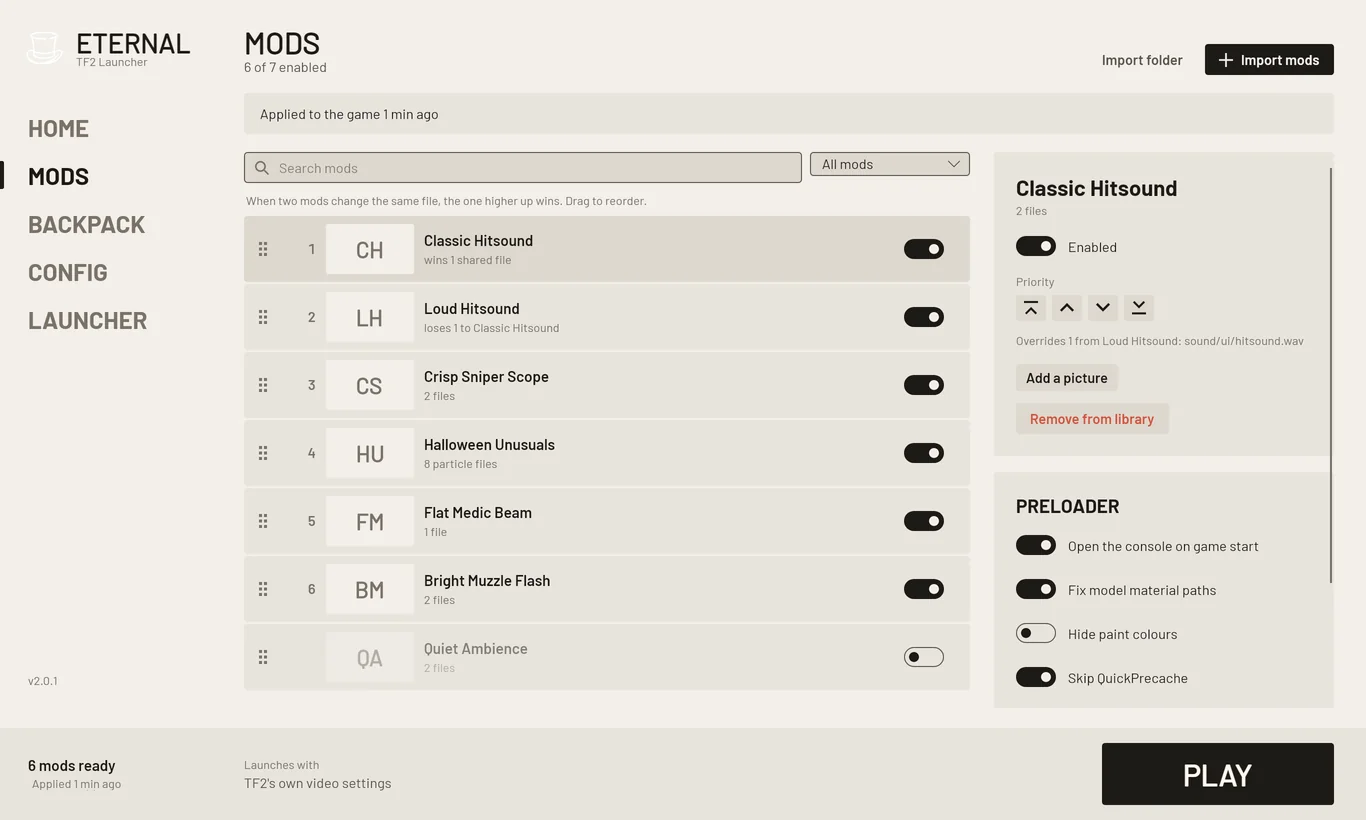
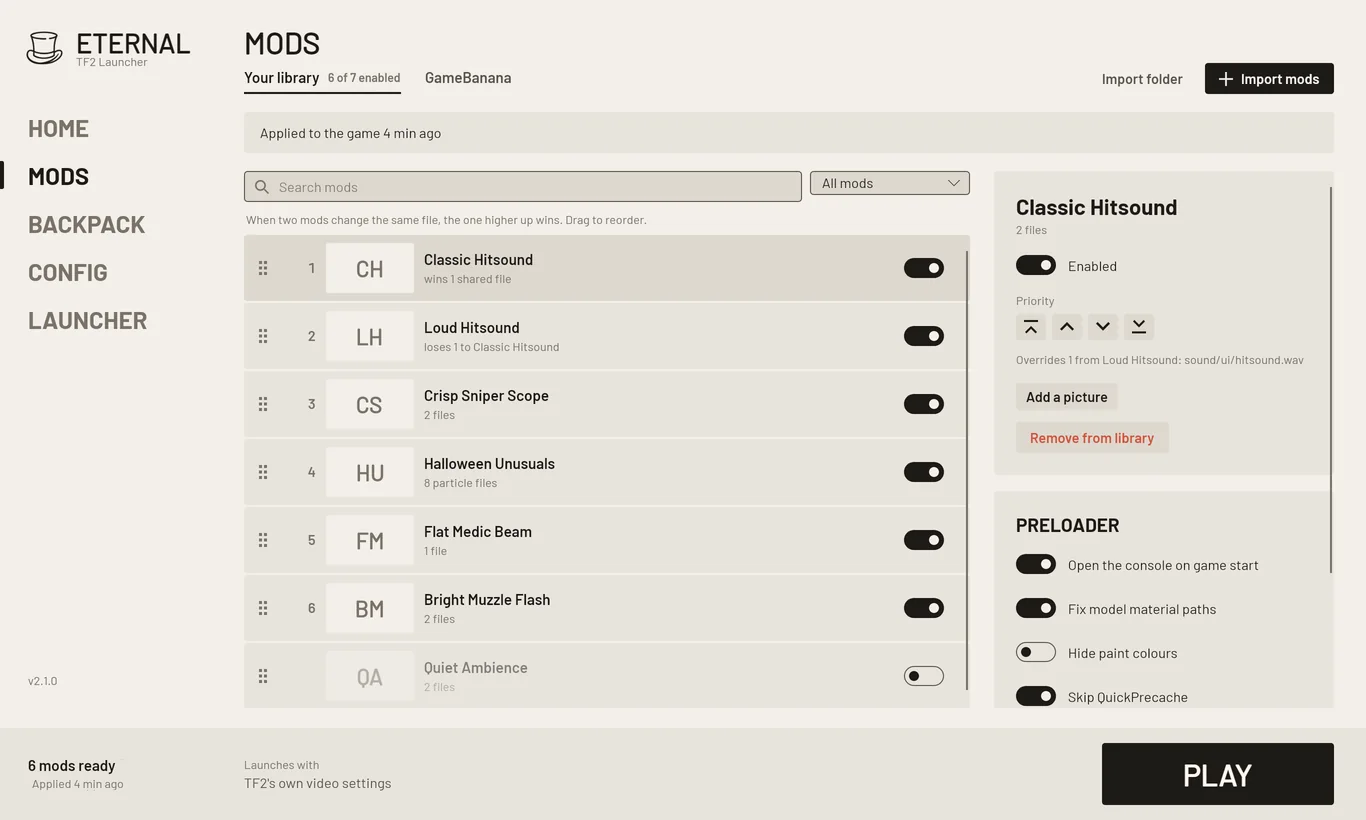
Release 2.1.0: GameBanana section and plainer copy on the website

diff --git a/docs/index.html b/docs/index.html
@@ -4,8 +4,8 @@
 <meta charset="utf-8">
 <meta name="viewport" content="width=device-width, initial-scale=1">
 <meta name="color-scheme" content="dark light">
-<title>Eternal TF2 Launcher: your TF2 mods, even in Casual</title>
-<meta name="description" content="A free launcher for Team Fortress 2 on Windows and Linux. Your mods load on Casual servers, every setting is explained, and your backpack shows its prices.">
+<title>Eternal, a TF2 launcher for your mods</title>
+<meta name="description" content="A free, open-source Team Fortress 2 launcher for Windows and Linux. It keeps your mods in one list, loads them in Casual, browses GameBanana, explains TF2's settings and prices your backpack.">
 <link rel="icon" type="image/png" href="assets/logos/mann-co.png">
 <link rel="preload" href="assets/fonts/BarlowCondensed-ExtraBold.ttf" as="font" type="font/ttf" crossorigin>
 <link rel="stylesheet" href="site.css">
@@ -24,6 +24,7 @@
   <a class="wordmark" href="#top"><img data-logo src="assets/logos/mann-co.png" alt="" width="40" height="40">Eternal</a>
   <nav aria-label="Sections">
     <a href="#mods">Mods</a>
+    <a href="#gamebanana">GameBanana</a>
     <a href="#config">Config</a>
     <a href="#backpack">Backpack</a>
     <a href="#themes">Themes</a>
@@ -35,24 +36,24 @@
 <main id="top">
 
   <section class="hero" aria-labelledby="title">
-    <h1 id="title">Your TF2 mods, <br class="phone-break">even in Casual</h1>
+    <h1 id="title">A launcher <br class="phone-break">for TF2 mods</h1>
     <div class="hero-text">
-      <p class="lead">Eternal is a free launcher for Team Fortress 2 on Windows and Linux. Switch on the mods you want, press Play, and they're there on any Casual server.</p>
+      <p class="lead">Eternal is a free Team Fortress 2 launcher for Windows and Linux. It keeps your mods in one list and loads them in Casual with cueki's casual-pre-loader.</p>
       <div class="hero-actions">
         <a class="button button-ink" href="https://github.com/holid4y/EternalTF2Launcher/releases/latest">Download</a>
         <a class="link" href="https://github.com/holid4y/EternalTF2Launcher">Source on GitHub</a>
       </div>
-      <p class="facts">Version 2.0.1 · Windows and Linux · Free and open source</p>
+      <p class="facts">Version 2.1.0 · Windows and Linux · Free and open source</p>
     </div>
     <figure class="hero-shot">
-      <a href="assets/screens/themes/mann-co-2x.webp" aria-label="Open the screenshot at full size"><img data-shot src="assets/screens/themes/mann-co-1x.webp" srcset="assets/screens/themes/mann-co-1x.webp 1366w, assets/screens/themes/mann-co-2x.webp 2732w" sizes="(max-width: 900px) 100vw, 58vw" width="1366" height="820" alt="The Mods tab: seven mods in load order, six switched on, and the orange Play button at the bottom"></a>
+      <a href="assets/screens/themes/mann-co-2x.webp" aria-label="Open the screenshot at full size"><img data-shot src="assets/screens/themes/mann-co-1x.webp" srcset="assets/screens/themes/mann-co-1x.webp 1366w, assets/screens/themes/mann-co-2x.webp 2732w" sizes="(max-width: 900px) 100vw, 58vw" width="1366" height="820" alt="The Mods tab: seven mods in load order, six switched on, tabs for the library and GameBanana, and the Play button at the bottom"></a>
     </figure>
   </section>
 
   <section id="mods" class="mods" aria-labelledby="mods-title">
     <div class="section-head">
-      <h2 id="mods-title" data-reveal>Drop it in, press Play</h2>
-      <p class="statement" data-reveal>Casual servers usually throw out custom files. Eternal packs your mods the way cueki's casual-pre-loader does, so hitsounds, skins, particles and HUDs make it into matchmaking.</p>
+      <h2 id="mods-title" data-reveal>Your mod list</h2>
+      <p class="statement" data-reveal>Casual servers ignore most custom files. Eternal runs cueki's casual-pre-loader for you, so most hitsounds, skins, particles and HUDs still show up there.</p>
     </div>
     <div class="story">
       <div class="story-stage" aria-hidden="true">
@@ -64,35 +65,62 @@
       <ol class="steps">
         <li class="step" data-step="drop">
           <a class="shot" href="assets/screens/drop-2x.webp"><img src="assets/screens/drop-1x.webp" srcset="assets/screens/drop-1x.webp 1366w, assets/screens/drop-2x.webp 2732w" sizes="100vw" width="1366" height="820" alt="A file being dragged onto the launcher, which shows Drop to import" loading="lazy"></a>
-          <h3>Drag a mod onto the window</h3>
-          <p>A VPK, a folder or a ZIP, RAR or 7z straight from your downloads all work. New mods from GameBanana can be imported from the Home tab, checked against GameBanana's own virus scan.</p>
+          <h3>Add a mod</h3>
+          <p>Drag a VPK, a folder, or a ZIP, RAR or 7z download onto the window. Loose files, like a lightwarp or a hitsound with no folders around it, are placed by matching their names against the game's own files.</p>
         </li>
         <li class="step" data-step="conflict">
           <a class="shot" href="assets/screens/conflict-2x.webp"><img src="assets/screens/conflict-1x.webp" srcset="assets/screens/conflict-1x.webp 1366w, assets/screens/conflict-2x.webp 2732w" sizes="100vw" width="1366" height="820" alt="Two hitsound mods in the list, with Loud Hitsound marked as losing its file to Classic Hitsound" loading="lazy"></a>
-          <h3>Put them in order</h3>
-          <p>When two mods change the same file, the one higher up wins. Each mod tells you which files it wins and which it loses, so you're never guessing why a skin didn't show up.</p>
+          <h3>Set the order</h3>
+          <p>When two mods change the same file, the one higher up wins. Each mod lists the files it wins and loses, so you can see why a skin didn't show up.</p>
         </li>
         <li class="step" data-step="applying">
           <a class="shot" href="assets/screens/applying-2x.webp"><img src="assets/screens/applying-1x.webp" srcset="assets/screens/applying-1x.webp 1366w, assets/screens/applying-2x.webp 2732w" sizes="100vw" width="1366" height="820" alt="The launcher applying mods, with a progress bar over the Play button" loading="lazy"></a>
           <h3>Press Play</h3>
-          <p>A moment after each change, Eternal applies your mods. It never touches the game folder while TF2 is running, and Play waits for a build to finish instead of starting the game on half-written files.</p>
+          <p>Your mods are applied a moment after each change. Nothing is written while TF2 is running, and Play waits until they're done.</p>
         </li>
         <li class="step" data-step="restore">
           <a class="shot" href="assets/screens/restore-2x.webp"><img src="assets/screens/restore-1x.webp" srcset="assets/screens/restore-1x.webp 1366w, assets/screens/restore-2x.webp 2732w" sizes="100vw" width="1366" height="820" alt="The Restore vanilla question, asking to turn every mod off while keeping the library" loading="lazy"></a>
-          <h3>Changed your mind?</h3>
-          <p>Restore vanilla puts the game back the way Steam installed it. Your mods stay in the library, ready for next time.</p>
+          <h3>Turning them off</h3>
+          <p>Restore vanilla takes your mods out of the game and leaves them in the library for next time.</p>
         </li>
       </ol>
     </div>
   </section>
 
+  <section id="gamebanana" class="gamebanana" aria-labelledby="gamebanana-title">
+    <div class="section-head">
+      <h2 id="gamebanana-title" data-reveal>GameBanana in the Mods tab</h2>
+      <p class="statement" data-reveal>Browse GameBanana's TF2 mods and sounds by category, search and sort them, and install what you like without leaving the launcher.</p>
+    </div>
+    <div class="gb-browse">
+      <figure class="gb-shot" data-reveal>
+        <a class="shot" href="assets/screens/browse-2x.webp"><img src="assets/screens/browse-1x.webp" srcset="assets/screens/browse-1x.webp 1366w, assets/screens/browse-2x.webp 2732w" sizes="(max-width: 900px) 100vw, 64vw" width="1366" height="820" alt="The GameBanana browser in the Mods tab: categories on the left, a search box and sort menu, and a grid of popular TF2 mods with their pictures, likes, views and update dates" loading="lazy"></a>
+      </figure>
+      <dl class="points">
+        <div data-reveal><dt>You pick the files</dt><dd>Plenty of uploads come as several files, like standard and high-quality builds. You tick the ones you want before anything downloads.</dd></div>
+        <div data-reveal><dt>Checked before installing</dt><dd>Files only come from gamebanana.com, and each has to match the size, MD5 checksum and virus scan GameBanana lists for it.</dd></div>
+        <div data-reveal><dt>Versions in one archive</dt><dd>If a download holds alternatives, like a 54 and a 70 FOV build, you choose which to install. Versions that change the same files are marked.</dd></div>
+      </dl>
+    </div>
+    <div class="gb-pair">
+      <figure data-reveal>
+        <a class="shot" href="assets/screens/details-2x.webp"><img src="assets/screens/details-1x.webp" srcset="assets/screens/details-1x.webp 1366w, assets/screens/details-2x.webp 2732w" sizes="(max-width: 900px) 100vw, 48vw" width="1366" height="820" alt="The Female Pyro's page in the launcher: its picture and thumbnails, download and like counts, and its files, two of them ticked, above an Install button" loading="lazy"></a>
+        <figcaption>A mod's page, with two of its files ticked.</figcaption>
+      </figure>
+      <figure data-reveal>
+        <a class="shot" href="assets/screens/parts-2x.webp"><img src="assets/screens/parts-1x.webp" srcset="assets/screens/parts-1x.webp 1366w, assets/screens/parts-2x.webp 2732w" sizes="(max-width: 900px) 100vw, 48vw" width="1366" height="820" alt="A dialog asking what to install from a Scout animation download, with the 54 FOV version ticked and the 70+ FOV version marked as changing the same files" loading="lazy"></a>
+        <figcaption>A download with two versions of the same animations.</figcaption>
+      </figure>
+    </div>
+  </section>
+
   <section id="config" class="config" aria-labelledby="config-title">
     <div class="config-text">
-      <h2 id="config-title" data-reveal>Settings in plain English</h2>
-      <p class="statement" data-reveal>Every option says what it does, whether it costs you frames and what TF2 uses by default. Change what you care about and the rest stays with TF2.</p>
+      <h2 id="config-title" data-reveal>Settings, explained</h2>
+      <p class="statement" data-reveal>Every option says what it does, whether it costs frames and what TF2's default is. Anything you leave alone stays with TF2.</p>
       <dl class="points">
         <div data-reveal><dt>Binds by pressing the key</dt><dd>Click, press the key, mouse button or scroll wheel, then type the command.</dd></div>
-        <div data-reveal><dt>Profiles to start from</dt><dd>Competitive, Max Performance, Max Quality and Balanced, or your own. A profile can remember your mods too, and you can send it to a friend as a file.</dd></div>
+        <div data-reveal><dt>Profiles to start from</dt><dd>Competitive, Max Performance, Max Quality and Balanced, or your own. A profile can include your mods too, and it can be sent to a friend as a file.</dd></div>
         <div data-reveal><dt>Search by name or cvar</dt><dd>Type "fov" or "viewmodel_fov", either finds it.</dd></div>
       </dl>
     </div>
@@ -103,8 +131,8 @@
 
   <section class="autoexec" aria-labelledby="autoexec-title">
     <div class="autoexec-text">
-      <h2 id="autoexec-title" data-reveal>Your autoexec stays yours</h2>
-      <p data-reveal>What you change goes into one marked block at the end of autoexec.cfg. Everything outside it is left exactly as you wrote it, and the old file is kept as autoexec.cfg.eternal-backup.</p>
+      <h2 id="autoexec-title" data-reveal>Your autoexec is left alone</h2>
+      <p data-reveal>What you change goes into one marked block at the end of autoexec.cfg. Everything outside it stays as you wrote it, and the original is kept as autoexec.cfg.eternal-backup.</p>
       <p data-reveal>This is the block after setting a field of view, fast weapon switch, damage numbers, a frame cap and one voice bind:</p>
     </div>
     <div class="slip slip-code" data-reveal>
@@ -130,19 +158,19 @@ bind "f" "voicemenu 0 0"
 
   <section id="backpack" class="backpack" aria-labelledby="backpack-title">
     <figure class="backpack-shot" data-reveal>
-      <a class="shot" href="assets/screens/backpack-2x.webp"><img src="assets/screens/backpack-1x.webp" srcset="assets/screens/backpack-1x.webp 1366w, assets/screens/backpack-2x.webp 2732w" sizes="(max-width: 900px) 100vw, 58vw" width="1366" height="820" alt="The Backpack tab: a grid of items with names and prices, and a Winter 2024 Cosmetic Case open on the right with its buy and sell prices" loading="lazy"></a>
+      <a class="shot" href="assets/screens/backpack-2x.webp"><img src="assets/screens/backpack-1x.webp" srcset="assets/screens/backpack-1x.webp 1366w, assets/screens/backpack-2x.webp 2732w" sizes="(max-width: 900px) 100vw, 58vw" width="1366" height="820" alt="The Backpack tab: a grid of items with names and prices, and a Winter 2021 Cosmetic Case open on the right with its buy and sell prices" loading="lazy"></a>
     </figure>
     <div class="backpack-text">
-      <h2 id="backpack-title" data-reveal>What's your backpack worth?</h2>
-      <p data-reveal>Eternal reads your public TF2 inventory from Steam and prices it with backpack.tf data from pricedb.io, in keys and refined, the way trades are written.</p>
-      <p data-reveal>Pick an item to see what sellers ask, what buyers offer and its Steam Market price in your currency. Sort by value, or filter by quality, class or what you can trade.</p>
+      <h2 id="backpack-title" data-reveal>Backpack prices</h2>
+      <p data-reveal>Eternal reads your public TF2 inventory from Steam and prices it with backpack.tf data from pricedb.io, in keys and refined.</p>
+      <p data-reveal>Pick an item to see what sellers ask, what buyers offer and its Steam Market price in your currency. You can sort by value and filter by quality, class or tradability.</p>
     </div>
   </section>
 
   <section id="themes" class="themes" aria-labelledby="themes-title">
     <div class="themes-head">
-      <h2 id="themes-title" data-reveal>Eight themes, pick one</h2>
-      <p id="themes-note" data-reveal>Click a theme and this page switches to it, screenshot included. In the launcher you can also pick any accent colour, put your own TF2 screenshots behind it and make the whole window bigger or smaller.</p>
+      <h2 id="themes-title" data-reveal>Eight themes</h2>
+      <p id="themes-note" data-reveal>Click one and this page switches to it. The launcher also takes any accent colour, which the hat icon follows, your own TF2 screenshots as a background, and a bigger or smaller interface.</p>
     </div>
     <div class="tiles" role="group" aria-labelledby="themes-note">
       <button type="button" class="tile" data-pick="mann-co" aria-pressed="true">
@@ -182,20 +210,20 @@ bind "f" "voicemenu 0 0"
 
   <section id="install" class="install" aria-labelledby="install-title">
     <div class="install-text">
-      <h2 id="install-title" data-reveal>Install in a minute</h2>
-      <p data-reveal>Both downloads come with everything they need, so there's no .NET or Python to set up first.</p>
-      <p data-reveal>Coming from 1.x? Your settings, profiles and mods move over on the first start.</p>
-      <a class="button" href="https://github.com/holid4y/EternalTF2Launcher/releases/latest" data-reveal>Download 2.0.1</a>
+      <h2 id="install-title" data-reveal>Installing</h2>
+      <p data-reveal>Both downloads include everything they need, so there's no .NET or Python to install first.</p>
+      <p data-reveal>Coming from 1.x? Your settings, profiles and mods carry over on the first start.</p>
+      <a class="button" href="https://github.com/holid4y/EternalTF2Launcher/releases/latest" data-reveal>Download 2.1.0</a>
     </div>
     <div class="slip slip-steps" data-reveal>
       <h3>Windows</h3>
       <ul>
-        <li><span>Run EternalLauncher-2.0.1-win-x64-setup.exe</span><span>no admin rights</span></li>
+        <li><span>Run EternalLauncher-2.1.0-win-x64-setup.exe</span><span>no admin rights</span></li>
         <li><span>Or unzip the portable build anywhere</span><span>keeps its data next to it</span></li>
       </ul>
       <h3>Linux</h3>
       <ul>
-        <li><code>tar xf EternalLauncher-2.0.1-linux-x64.tar.gz</code></li>
+        <li><code>tar xf EternalLauncher-2.1.0-linux-x64.tar.gz</code></li>
         <li><code>cd EternalLauncher &amp;&amp; ./install.sh</code><span>adds a menu entry</span></li>
         <li><span>Install wine too for QuickPrecache</span><span>optional</span></li>
         <li><span>Changed your mind? <code>./install.sh --remove</code></span><span>keeps your settings</span></li>
@@ -207,7 +235,8 @@ bind "f" "voicemenu 0 0"
   <section id="faq" class="faq" aria-labelledby="faq-title">
     <h2 id="faq-title" data-reveal>Questions</h2>
     <div class="answers">
-      <p data-reveal><strong>Do mods really load in Casual?</strong> Most visual ones do: particles and unusual effects, weapon and cosmetic skins, war paints, map textures, props and HUDs. Full player-model swaps are hit or miss, because the server often forces the original model back. The Mods tab warns you about models with a known problem before you launch.</p>
+      <p data-reveal><strong>Do mods load in Casual?</strong> Most visual ones do: particles and unusual effects, weapon and cosmetic skins, war paints, map textures, props and HUDs. Full player-model swaps are hit or miss, because the server often forces the original model back. The Mods tab warns you about models with a known problem before you launch.</p>
+      <p data-reveal><strong>Is downloading from GameBanana safe?</strong> Eternal only downloads files that GameBanana's virus scan passed, only from gamebanana.com, and checks each one against the size and MD5 checksum GameBanana lists. It's still someone else's upload, so the usual care applies.</p>
       <p data-reveal><strong>Does it change the game itself?</strong> No. Eternal never touches the game's code or memory. It writes the packed mods into tf/custom and one marked block into autoexec.cfg, the same places any HUD or hitsound goes.</p>
       <p data-reveal><strong>Can I still start TF2 from Steam?</strong> Yes. Copy the launch line from Config, Launch Options into TF2's launch options in Steam so the preloader's setup still runs when the game boots.</p>
       <p data-reveal><strong>Where do my mods live?</strong> In the launcher's own folder, not in tf/custom. Restore vanilla removes what was put in the game and keeps your library.</p>
@@ -236,7 +265,7 @@ bind "f" "voicemenu 0 0"
       <li><a href="https://github.com/holid4y/EternalTF2Launcher">Source code</a></li>
       <li><a href="https://github.com/holid4y/EternalTF2Launcher/issues">Report a problem</a></li>
     </ul>
-    <p>Eternal TF2 Launcher 2.0.1 for Windows and Linux. Free and open source under the MIT license. Set in Barlow, SIL Open Font License.</p>
+    <p>Eternal TF2 Launcher 2.1.0 for Windows and Linux. Free and open source under the MIT license. Set in Barlow, SIL Open Font License.</p>
   </div>
   <div class="foot-legal">
     <p>Not affiliated with Valve. Team Fortress 2 is a trademark of Valve Corporation.</p>

diff --git a/docs/site.css b/docs/site.css
@@ -128,6 +128,16 @@ strong, dt { font-weight: 600; }
 .step h3 { transition: color var(--t-hover) ease; }
 .js .step:not(.is-on) h3 { color: var(--muted); }
 
+/* GameBanana: carries on from the Mods story on the same ground. */
+.gamebanana { padding: 0 var(--margin) var(--section); }
+.gb-browse, .gb-pair { display: grid; grid-template-columns: repeat(12, minmax(0, 1fr)); column-gap: var(--gap); row-gap: 40px; }
+.gb-browse { align-items: center; }
+.gb-shot { grid-column: 1 / span 8; }
+.gb-browse .points { grid-column: 9 / span 4; }
+.gb-pair { margin-top: 72px; align-items: start; }
+.gb-pair figure { grid-column: span 6; display: grid; gap: 12px; }
+.gb-pair figcaption { font-size: var(--s-5); color: var(--muted); transition: color var(--t-theme) ease; }
+
 /* Config: what the tab looks like, and what it promises. */
 .config, .autoexec { background: var(--surface); transition: background-color var(--t-theme) ease; }
 .config {
@@ -235,13 +245,17 @@ strong, dt { font-weight: 600; }
 .foot-legal { display: flex; flex-wrap: wrap; justify-content: space-between; gap: 12px 32px; font-size: var(--s-5); }
 @media (hover: hover) and (pointer: fine) { .foot-links ul a:hover { text-decoration: underline; } }
 
-@media (prefers-reduced-motion: no-preference) {
+/* On a phone one paragraph fills the screen, so text is there to read at once; only wider screens reveal it. */
+@media (prefers-reduced-motion: no-preference) and (min-width: 641px) {
   .js [data-reveal] {
     opacity: 0; transform: translateY(24px);
     transition: opacity 700ms var(--ease-out), transform 900ms var(--ease-out), background-color var(--t-theme) ease, color var(--t-theme) ease;
     transition-delay: calc(var(--i, 0) * 80ms);
   }
   .js [data-reveal].is-in { opacity: 1; transform: none; }
+}
+
+@media (prefers-reduced-motion: no-preference) {
   .js .hero h1, .js .hero-text > * { opacity: 0; transform: translateY(28px); transition: opacity 700ms var(--ease-out), transform 900ms var(--ease-out); }
   .js .hero-text > :nth-child(1) { transition-delay: 80ms; }
   .js .hero-text > :nth-child(2) { transition-delay: 160ms; }
@@ -280,6 +294,8 @@ strong, dt { font-weight: 600; }
   .js .step:not(.is-on) h3 { color: inherit; }
   .config-text, .config-shot, .autoexec-text, .slip-code, .backpack-text, .install-text, .slip-steps,
   .faq h2, .answers, .credits-hat, .credits-text, .foot-links ul, .foot-links p { grid-column: 1 / -1; }
+  .gb-shot, .gb-browse .points, .gb-pair figure { grid-column: 1 / -1; }
+  .gb-pair { margin-top: 56px; }
   .backpack-shot { grid-column: 1 / -1; order: 1; }
   .backpack-text { order: 0; }
   .answers { columns: 1; }

diff --git a/docs/site.js b/docs/site.js
@@ -33,15 +33,26 @@ showTheme(root.dataset.theme || "mann-co");
 for (const section of document.querySelectorAll("section, footer")) {
   section.querySelectorAll("[data-reveal]").forEach((el, i) => el.style.setProperty("--i", Math.min(i, 6)));
 }
-const reveal = new IntersectionObserver((entries) => {
-  for (const entry of entries) {
-    if (entry.isIntersecting) {
-      entry.target.classList.add("is-in");
-      reveal.unobserve(entry.target);
+// Checked on every scroll frame rather than by intersection, so a part that a fast flick or a jump
+// carries straight past the screen still comes in.
+const hidden = new Set(document.querySelectorAll("[data-reveal]"));
+let queued = false;
+function revealReached() {
+  queued = false;
+  for (const el of hidden) {
+    if (el.getBoundingClientRect().top < innerHeight * 0.9) {
+      el.classList.add("is-in");
+      hidden.delete(el);
     }
   }
-}, { rootMargin: "0px 0px -10% 0px", threshold: 0.1 });
-document.querySelectorAll("[data-reveal]").forEach((el) => reveal.observe(el));
+}
+addEventListener("scroll", () => {
+  if (!queued && hidden.size) {
+    queued = true;
+    requestAnimationFrame(revealReached);
+  }
+}, { passive: true });
+revealReached();
 
 // The Mods story: the held screenshot follows the step in the middle of the screen.
 const stage = document.querySelectorAll(".story-stage img");

diff --git a/engine/eternal_engine/__init__.py b/engine/eternal_engine/__init__.py
@@ -1,3 +1,3 @@
 """Headless adapter between Eternal Launcher and cueki's casual-pre-loader."""
 
-ADAPTER_VERSION = "2.0.1"
+ADAPTER_VERSION = "2.1.0"

diff --git a/README.md b/README.md
@@ -12,7 +12,13 @@ Mods are packed into VPKs in `tf/custom` before the game starts, which is why th
 
 ### Mods
 
-Drop a VPK, a folder or a ZIP, RAR or 7z download anywhere on the window. A moment after each change, the enabled mods are applied to the game. When two mods change the same file, the one higher in the list wins, and each mod shows which files it wins or loses. New mods from GameBanana can be imported from the Home tab; downloads are checked against GameBanana's checksum and virus scan.
+Drop a VPK, a folder or a ZIP, RAR or 7z download anywhere on the window. A moment after each change, the enabled mods are applied to the game. When two mods change the same file, the one higher in the list wins, and each mod shows which files it wins or loses.
+
+When a download holds several versions of a mod (a 54 and a 70 FOV build, say, or a HUD with optional parts), you pick which ones to install; versions that change the same files are marked. Loose files such as a lightwarp or a hitsound with no folders around them are placed by matching their names against the game's own files.
+
+### GameBanana
+
+The Mods tab has a GameBanana browser for TF2 mods and sounds, with every category, search and sorting. Each mod's page shows its pictures, description and files, and you tick the files you want. Downloads are checked against GameBanana's size, MD5 checksum and virus scan before they're installed, and they only come from gamebanana.com.
 
 ### Config
 
@@ -37,7 +43,7 @@ Download a release from the [Releases](../../releases) page. Release builds incl
 ### Linux
 
 ```sh
-tar xf EternalLauncher-2.0.1-linux-x64.tar.gz
+tar xf EternalLauncher-2.1.0-linux-x64.tar.gz
 cd EternalLauncher && ./install.sh
 ```
 
@@ -45,7 +51,7 @@ This installs for your user only (`~/.local/share/eternal-launcher`), adds a men
 
 ### Windows
 
-Run `EternalLauncher-2.0.1-win-x64-setup.exe` (per-user, no admin rights), or extract the portable zip anywhere and run `EternalLauncher.exe`. The portable build keeps settings and mods in a `userdata` folder next to the executable.
+Run `EternalLauncher-2.1.0-win-x64-setup.exe` (per-user, no admin rights), or extract the portable zip anywhere and run `EternalLauncher.exe`. The portable build keeps settings and mods in a `userdata` folder next to the executable.
 
 Upgrading from 1.x keeps your settings, profiles, thumbnails and mod library; they are imported on first start.
 
@@ -140,7 +146,7 @@ The script replaces `engine/vendor/casual-pre-loader` with upstream's `core/`, `
 
 - [cueki](https://github.com/cueki) and the [casual-pre-loader](https://github.com/cueki/casual-pre-loader) contributors, for the preloading engine this launcher is built around.
 - [backpack.tf](https://backpack.tf) for the community prices, served through [pricedb.io](https://pricedb.io).
-- [GameBanana](https://gamebanana.com) and its TF2 creators for the mod feed and downloads.
+- [GameBanana](https://gamebanana.com) and its TF2 creators for the mods, sounds and downloads.
 - Valve, for TF2 and the Steam Web APIs used for news, inventories and market prices.
 - [Deadlock Mod Manager](https://github.com/deadlock-mod-manager/deadlock-mod-manager), whose interrupted-install recovery, conflict model and game guard shaped how mods are applied here.
 - Jeremy Tribby and the Barlow Project Authors for the [Barlow](https://github.com/jpt/barlow) typeface.
